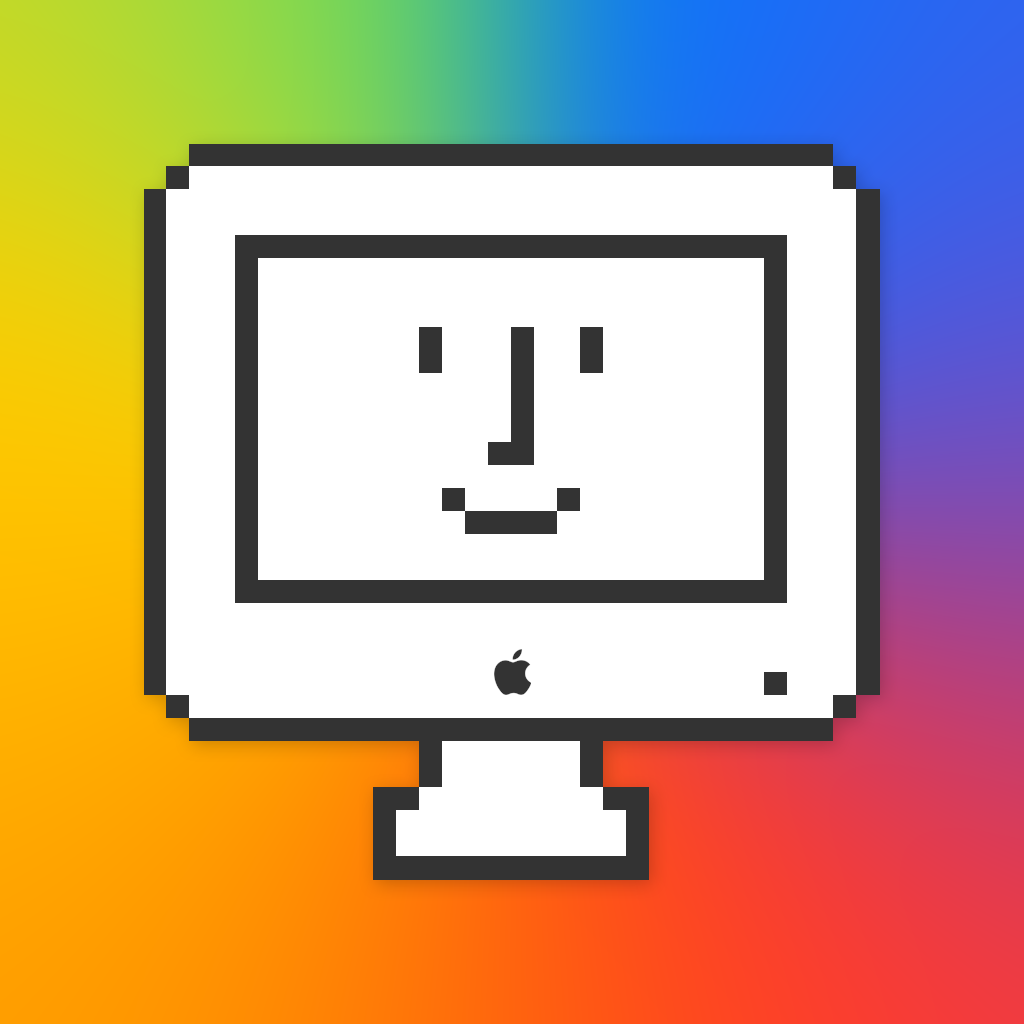
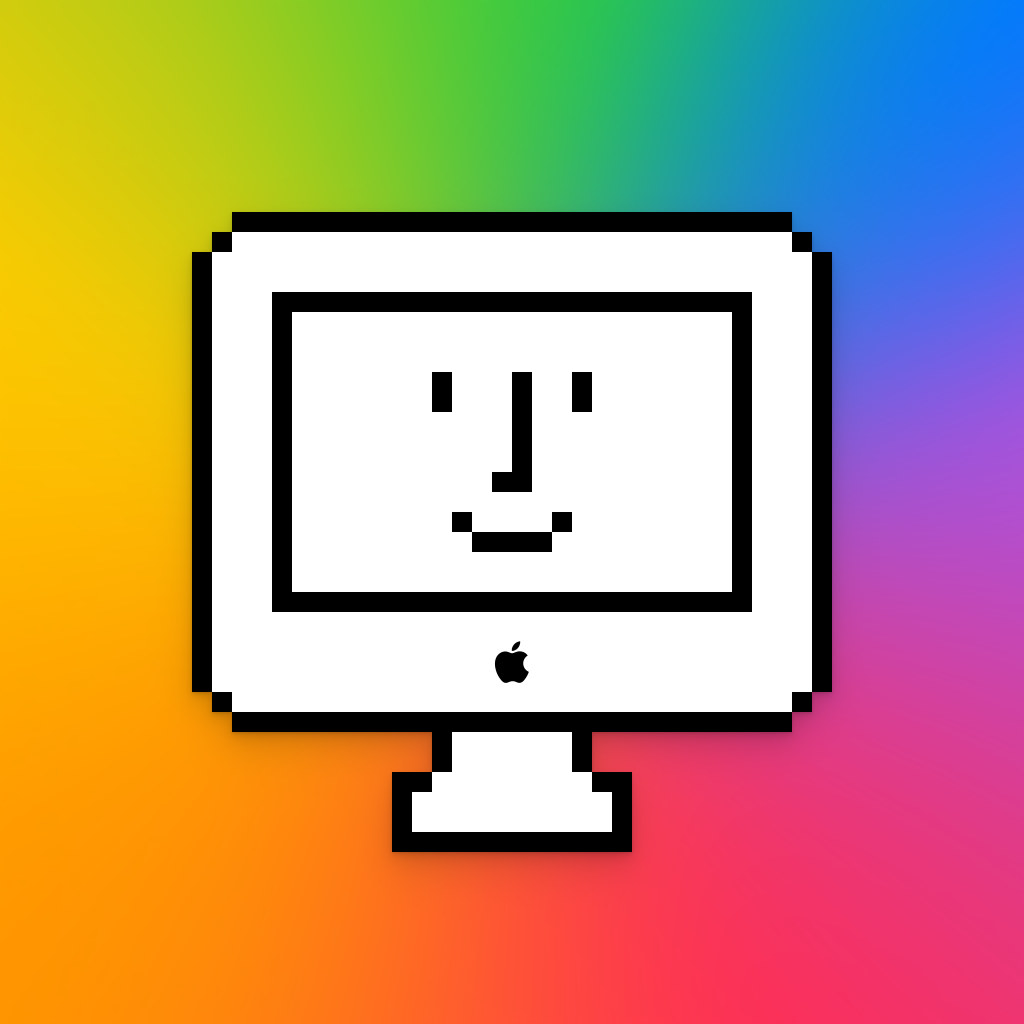
Update — Wireguard Server on macOS
- Fixed footer font size and line height on small screens
- Updated logo

diff --git a/css/core.min.css b/css/core.min.css
@@ -1,1 +1,1 @@
-a,abbr,acronym,address,applet,article,aside,audio,b,big,blockquote,body,canvas,caption,center,cite,code,dd,del,details,dfn,div,dl,dt,em,embed,fieldset,figcaption,figure,footer,form,h1,h2,h3,h4,h5,h6,header,hgroup,html,i,iframe,img,ins,kbd,label,legend,li,mark,menu,nav,object,output,p,pre,q,ruby,s,samp,section,small,span,strike,strong,sub,summary,sup,table,tbody,td,tfoot,th,thead,time,tr,tt,u,var,video{margin:0;padding:0;border:0;font-size:100%;font:inherit;vertical-align:baseline}article,aside,details,figcaption,figure,footer,header,hgroup,menu,nav,section{display:block}body{line-height:1}ol,ul{list-style:none}blockquote,q{quotes:none}blockquote:after,blockquote:before,q:after,q:before{content:'';content:none}table{border-collapse:collapse;border-spacing:0}a{text-decoration:none}html{font-size:62.5%;font-family:-apple-system,BlinkMacSystemFont,Tahoma,"Segoe UI",Roboto,Oxygen-Sans,Ubuntu,Cantarell,"Helvetica Neue",sans-serif;color:#181818;background-color:#fff}code,pre{font-family:monospace}pre{line-height:1.6em;padding-left:1.8rem;margin-left:1.8rem;border-left:2px solid #d8d8d8;overflow-x:scroll}code{letter-spacing:-.05em;padding:.1rem .5rem;white-space:pre-wrap;border-radius:.25em;background-color:rgba(0,0,0,.05)}pre code{letter-spacing:initial;padding:initial;background-color:transparent;color:initial;white-space:pre;color:#000;margin-right:1.8rem}kbd{border:1px solid #000;border-radius:.25em;padding-left:.4em;padding-right:.4em;box-sizing:border-box;word-wrap:break-word}kbd,table th{color:rgba(24,24,24,.75);border-color:rgba(50,50,50,.1);background-image:-moz-linear-gradient(rgba(255,255,255,.975),rgba(245,245,245,.9));background-image:-webkit-linear-gradient(rgba(255,255,255,.975),rgba(245,245,245,.9));background-image:linear-gradient(rgba(255,255,255,.975),rgba(245,245,245,.9))}body{font-size:1.44rem;line-height:2.48rem}main{text-align:center;margin-left:1.8rem;margin-right:1.8rem;margin-bottom:5.4rem}article{display:inline-block;text-align:left;margin:0 auto;width:100%;max-width:59.04rem}figure img,figure video{width:100%;max-width:100%}menu{text-align:center;margin-top:1.8rem}#logo{margin-top:1.8rem;margin-bottom:0;width:auto;display:inline-block;cursor:pointer;text-decoration:none}#logo:after{transition:opacity 150ms cubic-bezier(.165,.165,.44,.44),transform 150ms cubic-bezier(.165,.165,.44,.44);opacity:0;transform:scale(.5);background-size:contain;z-index:-5;top:1.5rem;left:calc(50% - 12.9rem);height:9rem;width:9rem;background-repeat:no-repeat;position:absolute;content:"";background-image:url(/images/logo/light-rainbow-watercolor.png)}a#logo:hover #mac{transform:scale(1.075)}#mac{transition:transform 150ms cubic-bezier(.165,.165,.44,.44);display:inline-block;vertical-align:top;width:4.8rem;height:4.8rem;image-rendering:-moz-crisp-edges;image-rendering:-o-crisp-edges;image-rendering:-webkit-optimize-contrast;-ms-interpolation-mode:nearest-neighbor;position:relative;-webkit-transform:translateZ(0)}.signature{height:7rem;margin-left:.5rem}#logo-eye-opened,a#logo:hover #logo-eye-closed{opacity:1}#logo-eye-closed,#logo:hover #logo-eye-opened{opacity:0}#logo:hover:after{opacity:1;transform:scale(1)}#smirk,#sunglasses{opacity:0}.mac-line-color{fill:#181818}.mac-background-color{fill:#fff}h1,h2,h3{margin-top:3.6rem;margin-bottom:1.8rem;line-height:1.25em}.admonition-title,h4,h5,h6{margin-top:.9rem}.admonition-title{margin-bottom:.9rem}h1{font-weight:900;font-size:2em}h2{font-weight:800;font-size:1.5em}.admonition-title,h3{font-weight:700;font-size:1.3em}h4{font-weight:500;font-size:1.1em}h5{font-weight:400;font-size:1em}h6{font-weight:300;font-size:.9em}time{font-size:.5em;line-height:1.2em;display:block;color:#909090;text-transform:uppercase}.admonition,.codehilite,.highlight,blockquote,dl,figcaption,ol,ol li,p,table,ul,ul li{margin-bottom:1.8rem}ol ol,ol ul,ul ol,ul ul{margin-top:1.8rem}ol.toc li,ul.toc li{margin-bottom:0}ol.toc ol,ol.toc ul,ul.toc ol,ul.toc ul{margin-top:0;margin-bottom:0}ol{list-style-type:decimal}ol ol{list-style-type:upper-alpha}ol ol ol{list-style-type:upper-roman}ul{list-style-type:disc}ul ul{list-style-type:circle}ul ul ul{list-style-type:square}li>.highlighter-rouge>.highlight,li>blockquote{margin-top:1.8rem}strong{font-weight:700}em{font-style:italic}abbr{-moz-font-feature-settings:"c2sc","smcp";-ms-font-feature-settings:"c2sc","smcp";-webkit-font-feature-settings:"c2sc","smcp";font-feature-settings:"c2sc","smcp";font-variant-caps:all-small-caps}dd,dt{text-align:left}dd p:last-child{margin-bottom:0}dt{font-weight:700}blockquote{padding-left:1.8rem;margin-left:1.8rem;color:#909090;border-left:2px solid #d8d8d8}ul{list-style-type:disc}ol{list-style-type:decimal}dl dd,ol,ul{padding-inline-start:1.8em}a{color:#007aff;text-decoration:underline;transition:color .3s cubic-bezier(.165,.84,.44,1)}a:hover{color:#0040d3}hr{border:none;border-top:2px solid #d8d8d8;width:40%;margin-top:5.4rem;margin-bottom:5.4rem}.stamp{text-align:center;color:#c6c6c6}.stamp,hr{margin-top:5.4rem;margin-bottom:5.4rem}.footnotes{font-size:1.5rem;line-height:2.625rem}.footnote{font-size:.75em;line-height:0;position:relative;top:-.5em;margin-left:.1em;margin-right:.1em}.summary-list{list-style:none}.admonition{color:rgba(24,24,24,.9);border-radius:.25em;background-color:rgba(0,0,0,.05);padding:.9rem 1.8rem}.admonition p:last-child{margin-bottom:.9rem}figure{margin-bottom:3.6rem;margin-top:3.6rem}figure p{text-align:center}figcaption{text-align:center;font-size:.9em;line-height:1.575em;color:#909090}main img,main video{transition:all .3s cubic-bezier(.165,.84,.44,1)}.half-width img,.half-width video{width:50%;text-align:center}.half-width{text-align:center}.admonition,main img,main video{border-radius:.5rem;box-shadow:0 1px 1px rgba(0,0,0,.08),0 2px 2px rgba(0,0,0,.12),0 4px 4px rgba(0,0,0,.16),0 8px 8px rgba(0,0,0,.2)}.admonition.red{background-color:rgba(255,59,48,.15)}.admonition.yellow{background-color:rgba(255,204,0,.15)}.no-shadow,.no-shadow img,.no-shadow video,img.emoji{box-shadow:unset!important}img.emoji{border-radius:unset;vertical-align:text-bottom}.app-download img{border-radius:.7rem;height:40px;width:auto}.app-download{text-align:center}main a:hover img,video:hover{box-shadow:0 1px 2px rgba(0,0,0,.04),0 2px 4px rgba(0,0,0,.08),0 4px 8px rgba(0,0,0,.12),0 8px 16px rgba(0,0,0,.16),0 16px 32px rgba(0,0,0,.07),0 32px 64px rgba(0,0,0,.07);transform:scale(1.025)}::selection{background:hsla(211,100%,50%,.99);color:#fff}::-moz-selection{background:hsla(211,100%,50%,.99);color:#fff}.show-when-dark{display:none}table{width:auto;word-break:normal;word-break:keep-all;border-collapse:collapse;overflow-x:auto}th,thead{font-weight:700}td,th{text-align:left}table th:first-child{border-top-left-radius:.25em}table td,table th{border:1px solid #d8d8d8}table th{color:#0c0c0c}tbody tr:nth-child(even){background-color:#f5f5f5}tr td,tr th{padding-left:1.8rem;padding-right:1.8rem}tr td:first-child,tr th:first-child{padding-left:1.8rem}tr td:last-child,tr th:last-child{padding-right:1.8rem}tbody tr:last-child{border-bottom:unset}th{padding-bottom:.15em}td{border:none;padding-top:.15em;padding-bottom:.15em}tr:last-child td{padding-bottom:0}@media (min-width:800px){body{font-size:1.8rem;line-height:3.1rem}article{width:72rem;max-width:72rem}pre{overflow-x:unset;font-size:1.8rem}pre code{display:inline-block}}.highlight .hll{background-color:#ffc}.highlight .c{color:#177500}.highlight .err{color:#000}.highlight .k{color:#a90d91}.highlight .l{color:#1c01ce}.highlight .n{color:#000}.highlight .o{color:#000}.highlight .ch{color:#177500}.highlight .cm{color:#177500}.highlight .cp{color:#633820}.highlight .cpf{color:#177500}.highlight .c1{color:#177500}.highlight .cs{color:#177500}.highlight .kc{color:#a90d91}.highlight .kd{color:#a90d91}.highlight .kn{color:#a90d91}.highlight .kp{color:#a90d91}.highlight .kr{color:#a90d91}.highlight .kt{color:#a90d91}.highlight .ld{color:#1c01ce}.highlight .m{color:#1c01ce}.highlight .s{color:#c41a16}.highlight .na{color:#836c28}.highlight .nb{color:#a90d91}.highlight .nc{color:#3f6e75}.highlight .no{color:#000}.highlight .nd{color:#000}.highlight .ni{color:#000}.highlight .ne{color:#000}.highlight .nf{color:#000}.highlight .nl{color:#000}.highlight .nn{color:#000}.highlight .nx{color:#000}.highlight .py{color:#000}.highlight .nt{color:#000}.highlight .nv{color:#000}.highlight .ow{color:#000}.highlight .mb{color:#1c01ce}.highlight .mf{color:#1c01ce}.highlight .mh{color:#1c01ce}.highlight .mi{color:#1c01ce}.highlight .mo{color:#1c01ce}.highlight .sb{color:#c41a16}.highlight .sc{color:#2300ce}.highlight .sd{color:#c41a16}.highlight .s2{color:#c41a16}.highlight .se{color:#c41a16}.highlight .sh{color:#c41a16}.highlight .si{color:#c41a16}.highlight .sx{color:#c41a16}.highlight .sr{color:#c41a16}.highlight .s1{color:#c41a16}.highlight .ss{color:#c41a16}.highlight .bp{color:#5b269a}.highlight .vc{color:#000}.highlight .vg{color:#000}.highlight .vi{color:#000}.highlight .il{color:#1c01ce}@media (prefers-color-scheme:dark){html{background-color:#222;color:#fff}.mac-line-color{fill:#000}.show-when-dark{display:block!important}#logo .show-when-dark,.app-download .show-when-dark{display:inline-block!important}.show-when-light{display:none!important}.mac-background-color{fill:#fff}a{color:#0a84ff}a:hover{color:#148eff}blockquote,time{color:#98989d}.stamp{color:#484848}code{background-color:rgba(255,255,255,.075)}pre code{color:#f8f8f2}.admonition{color:rgba(255,255,255,.9);background-color:rgba(46,46,46,.9)}.admonition.red{background-color:rgba(255,55,95,.2)}.admonition.yellow{background-color:rgba(255,214,10,.2)}#logo:after{background-image:url(/images/logo/dark-rainbow-watercolor.png)}kbd,table th{background-image:linear-gradient(rgba(46,46,46,.9),rgba(23,23,23,0));border-color:rgba(0,0,0,.5);border-bottom-color:rgba(0,0,0,.5);color:#fff}blockquote,hr,pre,table td,table th,thead tr{border-color:#484848}table th,tbody tr:nth-child(even){background-color:rgba(0,0,0,.175)}table th{color:#fff}.highlight .c{color:#75715e}.highlight .err{color:#960050;background-color:#1e0010}.highlight .lineno{color:#8f908a}.highlight .k{color:#f92672}.highlight .l{color:#ae81ff}.highlight .n{color:#f8f8f2}.highlight .o{color:#f8f8f2}.highlight .p{color:#f8f8f2}.highlight .cm{color:#75715e}.highlight .cp{color:#75715e}.highlight .c1{color:#75715e}.highlight .cs{color:#75715e}.highlight .ge{font-style:italic}.highlight .gs{font-weight:700}.highlight .kc{color:#66d9ef}.highlight .kd{color:#f92672}.highlight .kn{color:#f92672}.highlight .kp{color:#66d9ef}.highlight .kr{color:#66d9ef}.highlight .kt{color:#66d9ef}.highlight .ld{color:#e6db74}.highlight .m{color:#ae81ff}.highlight .s{color:#e6db74}.highlight .na{color:#a6e22e}.highlight .nb{color:#f8f8f2}.highlight .nc{color:#a6e22e}.highlight .no{color:#66d9ef}.highlight .nd{color:#a6e22e}.highlight .ni{color:#f8f8f2}.highlight .ne{color:#a6e22e}.highlight .nf{color:#a6e22e}.highlight .nl{color:#f8f8f2}.highlight .nn{color:#f8f8f2}.highlight .nx{color:#a6e22e}.highlight .py{color:#f8f8f2}.highlight .nt{color:#f92672}.highlight .nv{color:#f8f8f2}.highlight .ow{color:#f92672}.highlight .w{color:#f8f8f2}.highlight .mf{color:#ae81ff}.highlight .mh{color:#ae81ff}.highlight .mi{color:#ae81ff}.highlight .mo{color:#ae81ff}.highlight .sb{color:#e6db74}.highlight .sc{color:#e6db74}.highlight .sd{color:#e6db74}.highlight .s2{color:#e6db74}.highlight .se{color:#ae81ff}.highlight .sh{color:#e6db74}.highlight .si{color:#e6db74}.highlight .sx{color:#e6db74}.highlight .sr{color:#e6db74}.highlight .s1{color:#e6db74}.highlight .ss{color:#e6db74}.highlight .bp{color:#f8f8f2}.highlight .vc{color:#f8f8f2}.highlight .vg{color:#f8f8f2}.highlight .vi{color:#f8f8f2}.highlight .il{color:#ae81ff}.highlight .gu{color:#75715e}.highlight .gd{color:#f92672}.highlight .gi{color:#a6e22e}}
+a,abbr,acronym,address,applet,article,aside,audio,b,big,blockquote,body,canvas,caption,center,cite,code,dd,del,details,dfn,div,dl,dt,em,embed,fieldset,figcaption,figure,footer,form,h1,h2,h3,h4,h5,h6,header,hgroup,html,i,iframe,img,ins,kbd,label,legend,li,mark,menu,nav,object,output,p,pre,q,ruby,s,samp,section,small,span,strike,strong,sub,summary,sup,table,tbody,td,tfoot,th,thead,time,tr,tt,u,var,video{margin:0;padding:0;border:0;font-size:100%;font:inherit;vertical-align:baseline}article,aside,details,figcaption,figure,footer,header,hgroup,menu,nav,section{display:block}body{line-height:1}ol,ul{list-style:none}blockquote,q{quotes:none}blockquote:after,blockquote:before,q:after,q:before{content:'';content:none}table{border-collapse:collapse;border-spacing:0}a{text-decoration:none}html{font-size:62.5%;font-family:-apple-system,BlinkMacSystemFont,Tahoma,"Segoe UI",Roboto,Oxygen-Sans,Ubuntu,Cantarell,"Helvetica Neue",sans-serif;color:#181818;background-color:#fff}code,pre{font-family:monospace}pre{line-height:1.6em;padding-left:1.8rem;margin-left:1.8rem;border-left:2px solid #d8d8d8;overflow-x:scroll}code{letter-spacing:-.05em;padding:.1rem .5rem;white-space:pre-wrap;border-radius:.25em;background-color:rgba(0,0,0,.05)}pre code{letter-spacing:initial;padding:initial;background-color:transparent;color:initial;white-space:pre;color:#000;margin-right:1.8rem}kbd{border:1px solid #000;border-radius:.25em;padding-left:.4em;padding-right:.4em;box-sizing:border-box;word-wrap:break-word}kbd,table th{color:rgba(24,24,24,.75);border-color:rgba(50,50,50,.1);background-image:-moz-linear-gradient(rgba(255,255,255,.975),rgba(245,245,245,.9));background-image:-webkit-linear-gradient(rgba(255,255,255,.975),rgba(245,245,245,.9));background-image:linear-gradient(rgba(255,255,255,.975),rgba(245,245,245,.9))}body{font-size:1.44rem;line-height:2.48rem}main{text-align:center;margin-left:1.8rem;margin-right:1.8rem;margin-bottom:5.4rem}article{display:inline-block;text-align:left;margin:0 auto;width:100%;max-width:59.04rem}figure img,figure video{width:100%;max-width:100%}menu{text-align:center;margin-top:1.8rem}#logo{margin-top:1.8rem;margin-bottom:0;width:auto;display:inline-block;cursor:pointer;text-decoration:none}#logo:after{transition:opacity 150ms cubic-bezier(.165,.165,.44,.44),transform 150ms cubic-bezier(.165,.165,.44,.44);opacity:0;transform:scale(.5);background-size:contain;z-index:-5;top:1.5rem;left:calc(50% - 12.9rem);height:9rem;width:9rem;background-repeat:no-repeat;position:absolute;content:"";background-image:url(/images/logo/light-rainbow-watercolor.png)}a#logo:hover #mac{transform:scale(1.075)}#mac{transition:transform 150ms cubic-bezier(.165,.165,.44,.44);display:inline-block;vertical-align:top;width:4.8rem;height:4.8rem;image-rendering:-moz-crisp-edges;image-rendering:-o-crisp-edges;image-rendering:-webkit-optimize-contrast;-ms-interpolation-mode:nearest-neighbor;position:relative;-webkit-transform:translateZ(0)}.signature{height:7rem;margin-left:.5rem}#logo-eye-opened,a#logo:hover #logo-eye-closed{opacity:1}#logo-eye-closed,#logo:hover #logo-eye-opened{opacity:0}#logo:hover:after{opacity:1;transform:scale(1)}#smirk,#sunglasses{opacity:0}.mac-line-color{fill:#181818}.mac-background-color{fill:#fff}h1,h2,h3{margin-top:3.6rem;margin-bottom:1.8rem;line-height:1.25em}.admonition-title,h4,h5,h6{margin-top:.9rem}.admonition-title{margin-bottom:.9rem}h1{font-weight:900;font-size:2em}h2{font-weight:800;font-size:1.5em}.admonition-title,h3{font-weight:700;font-size:1.3em}h4{font-weight:500;font-size:1.1em}h5{font-weight:400;font-size:1em}h6{font-weight:300;font-size:.9em}time{font-size:.5em;line-height:1.2em;display:block;color:#909090;text-transform:uppercase}.admonition,.codehilite,.highlight,blockquote,dl,figcaption,ol,ol li,p,table,ul,ul li{margin-bottom:1.8rem}ol ol,ol ul,ul ol,ul ul{margin-top:1.8rem}ol.toc li,ul.toc li{margin-bottom:0}ol.toc ol,ol.toc ul,ul.toc ol,ul.toc ul{margin-top:0;margin-bottom:0}ol{list-style-type:decimal}ol ol{list-style-type:upper-alpha}ol ol ol{list-style-type:upper-roman}ul{list-style-type:disc}ul ul{list-style-type:circle}ul ul ul{list-style-type:square}li>.highlighter-rouge>.highlight,li>blockquote{margin-top:1.8rem}strong{font-weight:700}em{font-style:italic}abbr{-moz-font-feature-settings:"c2sc","smcp";-ms-font-feature-settings:"c2sc","smcp";-webkit-font-feature-settings:"c2sc","smcp";font-feature-settings:"c2sc","smcp";font-variant-caps:all-small-caps}dd,dt{text-align:left}dd p:last-child{margin-bottom:0}dt{font-weight:700}blockquote{padding-left:1.8rem;margin-left:1.8rem;color:#909090;border-left:2px solid #d8d8d8}ul{list-style-type:disc}ol{list-style-type:decimal}dl dd,ol,ul{padding-inline-start:1.8em}a{color:#007aff;text-decoration:underline;transition:color .3s cubic-bezier(.165,.84,.44,1)}a:hover{color:#0040d3}hr{border:none;border-top:2px solid #d8d8d8;width:40%;margin-top:5.4rem;margin-bottom:5.4rem}.stamp{text-align:center;color:#c6c6c6}.stamp,hr{margin-top:5.4rem;margin-bottom:5.4rem}.footnotes{font-size:.83333em;line-height:1.8em}.footnote{font-size:.75em;line-height:0;position:relative;top:-.5em;margin-left:.1em;margin-right:.1em}.summary-list{list-style:none}.admonition{color:rgba(24,24,24,.9);border-radius:.25em;background-color:rgba(0,0,0,.05);padding:.9rem 1.8rem}.admonition p:last-child{margin-bottom:.9rem}figure{margin-bottom:3.6rem;margin-top:3.6rem}figure p{text-align:center}figcaption{text-align:center;font-size:.9em;line-height:1.575em;color:#909090}main img,main video{transition:all .3s cubic-bezier(.165,.84,.44,1)}.half-width img,.half-width video{width:50%;text-align:center}.half-width{text-align:center}.admonition,main img,main video{border-radius:.5rem;box-shadow:0 1px 1px rgba(0,0,0,.08),0 2px 2px rgba(0,0,0,.12),0 4px 4px rgba(0,0,0,.16),0 8px 8px rgba(0,0,0,.2)}.admonition.red{background-color:rgba(255,59,48,.15)}.admonition.yellow{background-color:rgba(255,204,0,.15)}.no-shadow,.no-shadow img,.no-shadow video,img.emoji{box-shadow:unset!important}img.emoji{border-radius:unset;vertical-align:text-bottom}.app-download img{border-radius:.7rem;height:40px;width:auto}.app-download{text-align:center}main a:hover img,video:hover{box-shadow:0 1px 2px rgba(0,0,0,.04),0 2px 4px rgba(0,0,0,.08),0 4px 8px rgba(0,0,0,.12),0 8px 16px rgba(0,0,0,.16),0 16px 32px rgba(0,0,0,.07),0 32px 64px rgba(0,0,0,.07);transform:scale(1.025)}::selection{background:hsla(211,100%,50%,.99);color:#fff}::-moz-selection{background:hsla(211,100%,50%,.99);color:#fff}.show-when-dark{display:none}table{width:auto;word-break:normal;word-break:keep-all;border-collapse:collapse;overflow-x:auto}th,thead{font-weight:700}td,th{text-align:left}table td,table th{border:1px solid #d8d8d8}table th{color:#0c0c0c}tbody tr:nth-child(even){background-color:#f5f5f5}tr td,tr th{padding-left:1.8rem;padding-right:1.8rem}tr td:first-child,tr th:first-child{padding-left:1.8rem}tr td:last-child,tr th:last-child{padding-right:1.8rem}tbody tr:last-child{border-bottom:unset}th{padding-bottom:.15em}td{border:none;padding-top:.15em;padding-bottom:.15em}tr:last-child td{padding-bottom:0}@media (min-width:800px){body{font-size:1.8rem;line-height:3.1rem}article{width:72rem;max-width:72rem}pre{overflow-x:unset;font-size:1.8rem}pre code{display:inline-block}}.highlight .hll{background-color:#ffc}.highlight .c{color:#177500}.highlight .err{color:#000}.highlight .k{color:#a90d91}.highlight .l{color:#1c01ce}.highlight .n{color:#000}.highlight .o{color:#000}.highlight .ch{color:#177500}.highlight .cm{color:#177500}.highlight .cp{color:#633820}.highlight .cpf{color:#177500}.highlight .c1{color:#177500}.highlight .cs{color:#177500}.highlight .kc{color:#a90d91}.highlight .kd{color:#a90d91}.highlight .kn{color:#a90d91}.highlight .kp{color:#a90d91}.highlight .kr{color:#a90d91}.highlight .kt{color:#a90d91}.highlight .ld{color:#1c01ce}.highlight .m{color:#1c01ce}.highlight .s{color:#c41a16}.highlight .na{color:#836c28}.highlight .nb{color:#a90d91}.highlight .nc{color:#3f6e75}.highlight .no{color:#000}.highlight .nd{color:#000}.highlight .ni{color:#000}.highlight .ne{color:#000}.highlight .nf{color:#000}.highlight .nl{color:#000}.highlight .nn{color:#000}.highlight .nx{color:#000}.highlight .py{color:#000}.highlight .nt{color:#000}.highlight .nv{color:#000}.highlight .ow{color:#000}.highlight .mb{color:#1c01ce}.highlight .mf{color:#1c01ce}.highlight .mh{color:#1c01ce}.highlight .mi{color:#1c01ce}.highlight .mo{color:#1c01ce}.highlight .sb{color:#c41a16}.highlight .sc{color:#2300ce}.highlight .sd{color:#c41a16}.highlight .s2{color:#c41a16}.highlight .se{color:#c41a16}.highlight .sh{color:#c41a16}.highlight .si{color:#c41a16}.highlight .sx{color:#c41a16}.highlight .sr{color:#c41a16}.highlight .s1{color:#c41a16}.highlight .ss{color:#c41a16}.highlight .bp{color:#5b269a}.highlight .vc{color:#000}.highlight .vg{color:#000}.highlight .vi{color:#000}.highlight .il{color:#1c01ce}@media (prefers-color-scheme:dark){html{background-color:#222;color:#fff}.mac-line-color{fill:#000}.show-when-dark{display:block!important}#logo .show-when-dark,.app-download .show-when-dark{display:inline-block!important}.show-when-light{display:none!important}.mac-background-color{fill:#fff}a{color:#0a84ff}a:hover{color:#148eff}blockquote,time{color:#98989d}.stamp{color:#484848}code{background-color:rgba(255,255,255,.075)}pre code{color:#f8f8f2}.admonition{color:rgba(255,255,255,.9);background-color:rgba(46,46,46,.9)}.admonition.red{background-color:rgba(255,55,95,.2)}.admonition.yellow{background-color:rgba(255,214,10,.2)}#logo:after{background-image:url(/images/logo/dark-rainbow-watercolor.png)}kbd,table th{background-image:linear-gradient(rgba(46,46,46,.9),rgba(23,23,23,0));border-color:rgba(0,0,0,.5);border-bottom-color:rgba(0,0,0,.5);color:#fff}blockquote,hr,pre,table td,table th,thead tr{border-color:#484848}table th,tbody tr:nth-child(even){background-color:rgba(0,0,0,.175)}table th{color:#fff}.highlight .c{color:#75715e}.highlight .err{color:#960050;background-color:#1e0010}.highlight .lineno{color:#8f908a}.highlight .k{color:#f92672}.highlight .l{color:#ae81ff}.highlight .n{color:#f8f8f2}.highlight .o{color:#f8f8f2}.highlight .p{color:#f8f8f2}.highlight .cm{color:#75715e}.highlight .cp{color:#75715e}.highlight .c1{color:#75715e}.highlight .cs{color:#75715e}.highlight .ge{font-style:italic}.highlight .gs{font-weight:700}.highlight .kc{color:#66d9ef}.highlight .kd{color:#f92672}.highlight .kn{color:#f92672}.highlight .kp{color:#66d9ef}.highlight .kr{color:#66d9ef}.highlight .kt{color:#66d9ef}.highlight .ld{color:#e6db74}.highlight .m{color:#ae81ff}.highlight .s{color:#e6db74}.highlight .na{color:#a6e22e}.highlight .nb{color:#f8f8f2}.highlight .nc{color:#a6e22e}.highlight .no{color:#66d9ef}.highlight .nd{color:#a6e22e}.highlight .ni{color:#f8f8f2}.highlight .ne{color:#a6e22e}.highlight .nf{color:#a6e22e}.highlight .nl{color:#f8f8f2}.highlight .nn{color:#f8f8f2}.highlight .nx{color:#a6e22e}.highlight .py{color:#f8f8f2}.highlight .nt{color:#f92672}.highlight .nv{color:#f8f8f2}.highlight .ow{color:#f92672}.highlight .w{color:#f8f8f2}.highlight .mf{color:#ae81ff}.highlight .mh{color:#ae81ff}.highlight .mi{color:#ae81ff}.highlight .mo{color:#ae81ff}.highlight .sb{color:#e6db74}.highlight .sc{color:#e6db74}.highlight .sd{color:#e6db74}.highlight .s2{color:#e6db74}.highlight .se{color:#ae81ff}.highlight .sh{color:#e6db74}.highlight .si{color:#e6db74}.highlight .sx{color:#e6db74}.highlight .sr{color:#e6db74}.highlight .s1{color:#e6db74}.highlight .ss{color:#e6db74}.highlight .bp{color:#f8f8f2}.highlight .vc{color:#f8f8f2}.highlight .vg{color:#f8f8f2}.highlight .vi{color:#f8f8f2}.highlight .il{color:#ae81ff}.highlight .gu{color:#75715e}.highlight .gd{color:#f92672}.highlight .gi{color:#a6e22e}}

diff --git a/obsolete/wireguard-server-on-macos.html b/obsolete/wireguard-server-on-macos.html
@@ -1,0 +1,148 @@
+---
+layout: article
+title: "Wireguard Server on macOS"
+date: 2019-08-30 20:15:26
+categories:
+  - Technology
+  - macOS
+  - Services
+  - Programming
+  - Unix
+  - Guides
+excerpt: "With this guide, you too can easily enjoy Wireguard VPN's performance and security served by macOS Mojave."
+image: "wireguard-server-on-macos/share-image.jpg"
+has_afterward: true
+---
+
+<div class="admonition red">
+<p class="admonition-title">Obsolete</p>
+<p>The following is the original article originally published at <a href="/article/wireguard-server-on-macos">barrowclift.me/post/wireguard-server-on-macos</a> on August 30, 2019. It has since been replaced at its original location with a superior guide featuring a myriad of improvements as <a href="https://github.com/barrowclift/barrowclift.github.io/issues/1">suggested</a> by <a href="https://lifepillar.me">lifepillar</a>. For the sake of maintaining an accurate historical archive, the old guide will remain available to read in its origin form below.</p>
+<p><strong>This is no longer the recommended approach.</strong> Instead, I highly suggest referring to the new guide at <a href="/article/wireguard-server-on-macos">barrowclift.me/post/wireguard-server-on-macos</a>.</p>
+</div>
+
+<figure class="inline shadow">
+<p><img src="https://dropbox.barrowclift.me/assets/wireguard-server-on-macos/share-image.jpg" alt=""></p>
+</figure>
+
+<p>After months of false starts and dead ends, I’m happy to report my <a href="https://www.wireguard.com">Wireguard</a> <abbr title="Virtual Private Network">VPN</abbr> server is now successfully running on <a href="https://en.wikipedia.org/wiki/MacOS_Mojave">macOS Mojave</a>.</p>
+<p>Wireguard is a relatively new <abbr title="Virtual Private Network">VPN</abbr> protocol, entering the scene just three short years ago in <a href="https://news.ycombinator.com/item?id=11994265">2016</a>. Compared to the anchient <abbr title="Virtual Private Network">VPN</abbr> alternatives like <a href="https://en.wikipedia.org/wiki/IPsec">IPSec</a> and <a href="https://openvpn.net">OpenVPN</a>, Wireguard’s simplicity and speed quickly earned it the attention and praise of various tech communities like <a href="https://news.ycombinator.com/item?id=17846387">Hacker News</a> and <a href="https://lobste.rs/s/bxfhxp/virtual_private_networks_with_wireguard">Lobste.rs</a>. Everywhere you look are Wireguard threads filled with enthusiastic comments urging others to give <a href="https://news.ycombinator.com/item?id=17847016">Wireguard a try</a>.</p>
+<p>The best part is, they’re right! Compared to the existing lineup of <abbr title="Virtual Private Network">VPN</abbr> protocols, Wireguard’s small codebase, blazingly fast speed, and relatively simple setup put Wireguard in a league of its own as the first truly modern <abbr title="Virtual Private Network">VPN</abbr> protocol. There’s just one tiny niggle: the protocol is so young there might be no documentation or guides for your platform of choice.</p>
+<p>Unfortunately, that’s the situation I found myself in with macOS when attempting to set up my Wireguard server. Despite extensively reading what’s currently the <a href="https://github.com/pirate/wireguard-docs">finest Wireguard documentation available</a> and following its <a href="https://github.com/pirate/wireguard-docs/tree/master/example-simple-client-to-server">relevant example</a> to a tee, Wireguard would simply not function as expected on macOS. The best I could do was establish a direct connection to the server with Wireguard, but all attempts to access the <abbr title="Local Area Network">LAN</abbr> or surf the web timed out and failed.</p>
+<p>Despite numerous attempts over the months, my Google-fu yielded no results, either. While there were plenty of <a href="https://medium.com/@headquartershq/setting-up-wireguard-on-a-mac-8a121bfe9d86">help articles</a> from others setting up Wireguard on macOS, every single one of them was for setting up a Wireguard <em>peer</em> on macOS. This peer was always intended to only connect to a Wireguard server on more common platforms like <a href="https://ubuntu.com">Ubuntu</a> or <a href="https://www.centos.org">CentOS</a>, never the other way around.</p>
+<p>However, from my on-and-off research over these past few months I’ve finally cobbled together a solution that’s working. Thus, I intend to fill this hole in the community’s growing collection of documentation and setup guides: here’s what you need to do to get a Wireguard server running on macOS Mojave with full traffic routing and <abbr title="Local Area Network">LAN</abbr> access.</p>
+<ol>
+  <li>Pick a <abbr title="Internet Protocol version 4"><abbr title="Internet Protocol version 4">IPv4</abbr></abbr> subnet range where Wireguard and the attached clients will reside.
+    <blockquote>
+      <p>For example, <code class="highlighter-rouge">10.0.10.0/24</code>, which <a href="https://ipaddressguide.com/cidr">expands</a> to cover all IPs from <code class="highlighter-rouge">10.0.10.0</code> to <code class="highlighter-rouge">10.0.10.255</code>.</p>
+    </blockquote>
+  </li>
+  <li>
+    <p>Enter the following lines into <code class="highlighter-rouge">/etc/pf.conf</code>. These additional lines will allow us to access other clients on the <abbr title="Local Area Network"><abbr title="Local Area Network">LAN</abbr></abbr> and route internet traffic for web browsing on the <abbr title="Virtual Private Network"><abbr title="Virtual Private Network">VPN</abbr></abbr>. Note the placement of the lines: <em>the placement and order of these rules matters, do not rearrange them</em>. Ensure that the subnet matches the one you chose in the previous step and that <code class="highlighter-rouge">utun3</code> ends up matching the interface name that Wireguard uses on your machine when you eventually start it up for the first time. If it does not, change the name here to match (for example, it might be <code class="highlighter-rouge">wg0</code>, <code class="highlighter-rouge">utun1</code>, etc.). Additionally, if your macOS server is not connected via ethernet, be sure to update <code class="highlighter-rouge">en0</code> to match whatever other wired or wireless interface you’re using instead:</p>
+    <div class="language-bash highlighter-rouge"><div class="highlight"><pre class="highlight"><code><span class="c"># ...</span>
+nat-anchor <span class="s2">"com.apple/*"</span>
+
+<span class="c"># [NEW LINES]</span>
+nat on en0 from 10.0.10.0/24 to any -&gt; <span class="o">(</span>en0<span class="o">)</span>
+nat on utun3 from 10.0.10.0/24 to any -&gt; <span class="o">(</span>utun3<span class="o">)</span>
+<span class="c"># [END NEW LINES]</span>
+
+rdr-anchor <span class="s2">"com.apple/*"</span>
+<span class="c"># ...</span>
+</code></pre></div>    </div>
+  </li>
+  <li>Test your <code class="highlighter-rouge">pf.conf</code> changes with <code class="highlighter-rouge">pfctl -nf /etc/pf.conf</code>. Once you’ve verified it returns with no errors, run <code class="highlighter-rouge">pfctl -f /etc/pf.conf</code> to manually load the changes. No restart is necessary.</li>
+  <li>You’ll need to create a small script which a daemon property file we’ll make later will execute so these rules are applied on startup. I placed my script at <code class="highlighter-rouge">/usr/local/etc/wireguard-pf.sh</code>, but you can put yours anywhere you want. The contents of this script are very simple:
+    <div class="language-bash highlighter-rouge"><div class="highlight"><pre class="highlight"><code><span class="c">#!/bin/sh</span>
+
+pfctl <span class="nt">-f</span> /etc/pf.conf
+</code></pre></div>    </div>
+  </li>
+  <li>Create the daemon property file at at <code class="highlighter-rouge">/Library/LaunchDaemons/com.username.wireguardpf.plist</code> that will run the small script we just created. This can be whatever name you prefer, but it should still reside in <code class="highlighter-rouge">/Library/LaunchDaemons/</code>. The contents of the file follows, but remember to substitute the path and filename you chose in the previous step):
+    <div class="language-xml highlighter-rouge"><div class="highlight"><pre class="highlight"><code><span class="cp">&lt;!DOCTYPE plist PUBLIC "-//Apple//DTD PLIST 1.0//EN" "http://www.apple.com/DTDs/PropertyList-1.0.dtd"&gt;</span>
+<span class="nt">&lt;plist</span> <span class="na">version=</span><span class="s">"1.0"</span><span class="nt">&gt;</span>
+<span class="nt">&lt;dict&gt;</span>
+    <span class="nt">&lt;key&gt;</span>Disabled<span class="nt">&lt;/key&gt;</span>
+    <span class="nt">&lt;false/&gt;</span>
+    <span class="nt">&lt;key&gt;</span>KeepAlive<span class="nt">&lt;/key&gt;</span>
+    <span class="nt">&lt;dict&gt;</span>
+        <span class="nt">&lt;key&gt;</span>SuccessfulExit<span class="nt">&lt;/key&gt;</span>
+        <span class="nt">&lt;false/&gt;</span>
+    <span class="nt">&lt;/dict&gt;</span>
+    <span class="nt">&lt;key&gt;</span>Label<span class="nt">&lt;/key&gt;</span>
+    <span class="nt">&lt;string&gt;</span>org.username.wireguardpf<span class="nt">&lt;/string&gt;</span>
+    <span class="nt">&lt;key&gt;</span>ProgramArguments<span class="nt">&lt;/key&gt;</span>
+    <span class="nt">&lt;array&gt;</span>
+        <span class="nt">&lt;string&gt;</span>/usr/local/etc/wireguard-pf.sh<span class="nt">&lt;/string&gt;</span>
+    <span class="nt">&lt;/array&gt;</span>
+    <span class="nt">&lt;key&gt;</span>RunAtLoad<span class="nt">&lt;/key&gt;</span>
+    <span class="nt">&lt;true/&gt;</span>
+<span class="nt">&lt;/dict&gt;</span>
+<span class="nt">&lt;/plist&gt;</span>
+</code></pre></div>    </div>
+  </li>
+  <li>Ensure the correct permissions are granted to the two files you just created and then ensure the daemon is loaded with <code class="highlighter-rouge">launchctl</code>. By loading the script with this program, macOS will know to run the script on startup. Remember to use the paths and filenames you previously chose:
+    <div class="language-console highlighter-rouge"><div class="highlight"><pre class="highlight"><code><span class="gp">$</span><span class="w"> </span><span class="nb">sudo chown </span>root:wheel /usr/local/etc/wireguard-pf.sh
+<span class="gp">$</span><span class="w"> </span><span class="nb">sudo chmod </span>755 /usr/local/etc/wireguard-pf.sh
+<span class="gp">$</span><span class="w"> </span><span class="nb">sudo chown </span>root:wheel /Library/LaunchDaemons/org.username.wireguardpf.plist
+<span class="gp">$</span><span class="w"> </span><span class="nb">sudo </span>launchctl load /Library/LaunchDaemons/org.username.wireguardpf.plist
+</code></pre></div>    </div>
+  </li>
+  <li>Create a file named <code class="highlighter-rouge">/etc/sysctl.conf</code> with the contents below. In order for the added rules in <code class="highlighter-rouge">pf.conf</code> to be useful, we must ensure our peers continue to report their Wireguard-assigned IPs while on the <abbr title="Virtual Private Network"><abbr title="Virtual Private Network">VPN</abbr></abbr>. The following lines do this for us, and is applied on startup automatically:
+    <div class="language-bash highlighter-rouge"><div class="highlight"><pre class="highlight"><code>net.inet.ip.forwarding<span class="o">=</span>1
+net.inet6.ip6.forwarding<span class="o">=</span>1
+</code></pre></div>    </div>
+  </li>
+  <li>To assist testing the setup later, we’ll make those settings take effect now by executing the following commands in Terminal (or reboot, your choice):
+    <div class="language-console highlighter-rouge"><div class="highlight"><pre class="highlight"><code><span class="gp">$</span><span class="w"> </span>sysctl <span class="nt">-w</span> net.inet.ip.forwarding<span class="o">=</span>1
+<span class="gp">$</span><span class="w"> </span>sysctl <span class="nt">-w</span> net.inet6.ip6.forwarding<span class="o">=</span>1
+</code></pre></div>    </div>
+  </li>
+  <li>Decide a port to host Wireguard on (the standard port is 51820). If your router doesn’t have this port opened and forwarding to your Wireguard server local IP yet, do so now. For the sake of brevety and the sheer breadth of router software out there, specific instructions for how to do this will not be included. For assistance, Google your Internet provider’s name and “setup port forwarding”.</li>
+  <li>Install Wireguard by downloading the free <a href="https://itunes.apple.com/us/app/wireguard/id1451685025?ls=1&amp;mt=12">Wireguard App from the App Store</a>. Finally, something easy!</li>
+  <li>Launch the Wireguard app, then click “File” &gt; “Add Empty Tunnel…”. Pick a name to represent your <abbr title="Virtual Private Network"><abbr title="Virtual Private Network">VPN</abbr></abbr> service then paste the following into the config body. Be sure to update the placeholders with your own values:
+    <div class="language-bash highlighter-rouge"><div class="highlight"><pre class="highlight"><code><span class="o">[</span>Interface]
+<span class="c"># Substitute with the subnet for Wireguard you chose earlier</span>
+Address <span class="o">=</span> 10.0.10.0/24
+PrivateKey <span class="o">=</span> XXX
+<span class="c"># If you chose a different port earlier when setting up port forwarding on your router, update the port here to match.</span>
+ListenPort <span class="o">=</span> 51820
+<span class="c"># This is to prevent <abbr title="Internet Protocol version 4">IPv4</abbr> &amp; <abbr title="Internet Protocol version 6">IPv6</abbr> DNS leaking when browsing the web on the <abbr title="Virtual Private Network">VPN</abbr>. Feel free to use whatever DNS provider you prefer.</span>
+DNS <span class="o">=</span> 1.1.1.1, 1.0.0.1, 2606:4700:4700::1111
+
+<span class="o">[</span>Peer]
+PublicKey <span class="o">=</span> XXX
+<span class="c"># Chose an IP that this peer will use when connected to Wireguard. This should be within the subnet you chose earlier.</span>
+AllowedIPs <span class="o">=</span> 10.0.10.10/32
+
+<span class="c"># ... and other Peers</span>
+<span class="c"># Follow the same steps as the example peer above for each new peer</span>
+</code></pre></div>    </div>
+  </li>
+  <li>Since documentation for setting up Wireguard <em>peers</em> is fairly mature at this point, this process won’t be covered in depth here. As a sanity check, the configs used by your peers should look something like this
+    <div class="language-bash highlighter-rouge"><div class="highlight"><pre class="highlight"><code><span class="o">[</span>Interface]
+<span class="c"># This MUST match the "AllowedIPs" IP you set for this peer in the server's config the previous step.</span>
+Address <span class="o">=</span> 10.0.10.10/32
+PrivateKey <span class="o">=</span> XXX
+<span class="c"># This is to prevent <abbr title="Internet Protocol version 4">IPv4</abbr> &amp; <abbr title="Internet Protocol version 6">IPv6</abbr> DNS leaking when browsing the web on the <abbr title="Virtual Private Network">VPN</abbr>. Feel free to use whatever DNS provider you prefer.</span>
+DNS <span class="o">=</span> 1.1.1.1, 1.0.0.1, 2606:4700:4700::1111
+
+<span class="o">[</span>Peer]
+PublicKey <span class="o">=</span> XXX
+<span class="c"># Your Wireguard server's public IP</span>
+Endpoint <span class="o">=</span> XXX.XXX.XXX.XXX:51820
+AllowedIPs <span class="o">=</span> 0.0.0.0/0, ::/0
+PersistentKeepalive <span class="o">=</span> 25
+</code></pre></div>    </div>
+  </li>
+  <li>Test your setup by first starting Wireguard on your macOS server with the app and then attempting to connect with your peer. Once connected, be sure to test the traffic routing was set up correctly by attempting to surf the web. Then, try connecting to the server itself and other computers on the <abbr title="Local Area Network"><abbr title="Local Area Network">LAN</abbr></abbr> to ensure proper configuration.</li>
+</ol>
+<p>Congratulations! You’re now among the dozen people crazy enough to serve Wireguard on macOS. Please feel free to reach out on <a href="https://twitter.com/Barrowclift">Twitter</a> or via <a href="mailto:marc@barrowclift.me">email</a> if you have feedback or corrections, I’d love to hear from you.</p>
+<p class="stamp">⌘</p>
+<h2 id="research-materials" class="anchored">Research Materials</h2>
+<p>The following help articles and documentation from fellow enthusiasts were invaluable in my research and referenced heavily. Many thanks to them for their contributions:</p>
+<ul>
+  <li><a href="https://www.stavros.io/posts/how-to-configure-wireguard/">Stavros Korokithakis’s “How to easily configure WireGuard”</a></li>
+  <li><a href="https://github.com/pirate/wireguard-docs">pirate’s “Unofficial Wireguard Documentation”</a></li>
+  <li><a href="https://blog.netnerds.net/2016/11/share-vpn-with-os-x-sierra-internet-sharing/">Chrissy LeMaire’s “Share <abbr title="Virtual Private Network">VPN</abbr> with OS X Sierra Internet Sharing”</a></li>
+  <li><a href="https://murusfirewall.com/Documentation/OS%20X%20PF%20Manual.pdf">Murus’s “OS X PF Manual”</a></li>
+</ul>

diff --git a/css/core.css b/css/core.css
@@ -359,8 +359,8 @@ hr,
     margin-bottom: 5.4rem;
 }
 .footnotes {
-    font-size: 1.5rem;
-    line-height: 2.625rem;
+    font-size: 0.83333em;
+    line-height: 1.8em;
 }
 .footnote {
     font-size: 0.75em;
@@ -477,9 +477,6 @@ th {
 td,
 th {
     text-align: left;
-}
-table th:first-child {
-    border-top-left-radius: 0.25em;
 }
 table td,
 table th {
